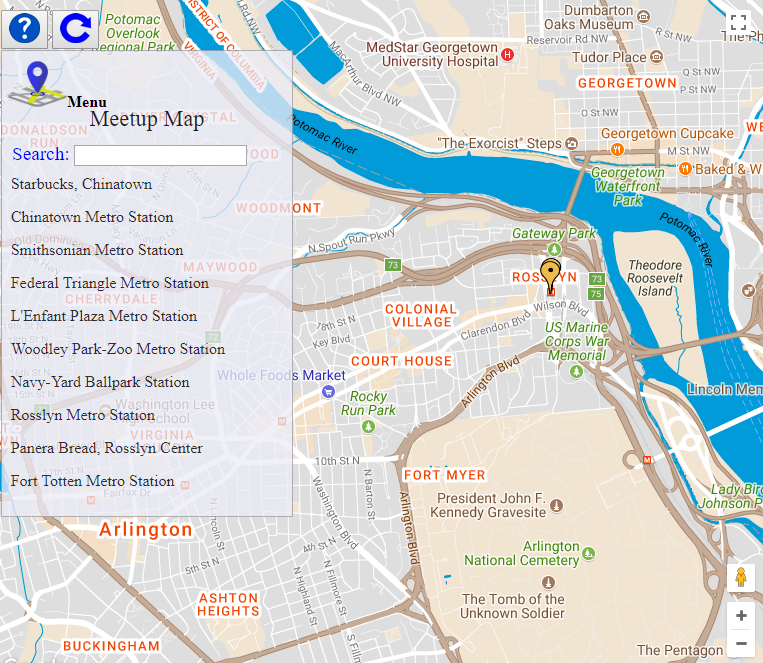
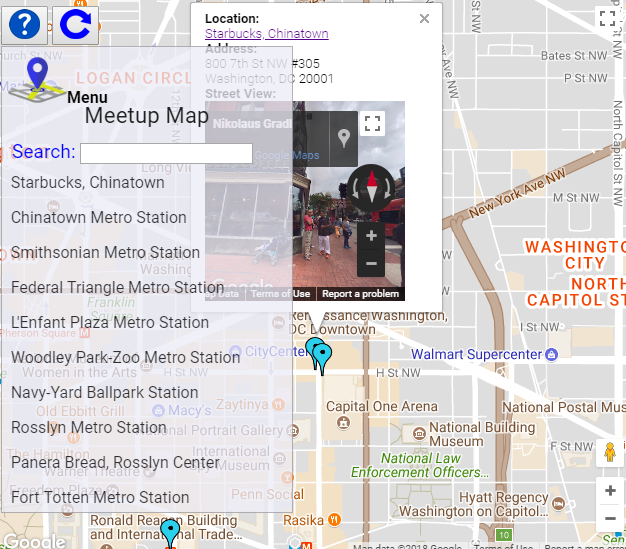
Add Titles & Image

diff --git a/index.html b/index.html
@@ -8,6 +8,7 @@
         <meta name="author" content="Petergns">
         <meta name="viewport" content="width=device-width, initial-scale=1">
         <!-- CSS sheet -->
+        <link href="https://fonts.googleapis.com/css?family=Roboto:500,700" rel="stylesheet">
         <link rel="stylesheet" href="css/style.css">
         <!--[if lt IE 9]>
           <script src="https://cdnjs.cloudflare.com/ajax/libs/html5shiv/3.7.3/html5shiv.js"></script>
@@ -17,7 +18,7 @@
 
       <div id="container" data-bind="style: { height: showToggleMenu() ? '465px' : '80px', width: showToggleMenu() ? '290px' : '70px' }">
           <div id="menuIcon" data-bind="click: toggleMenu" height="32px" id="Layer_1" style="enable-background:new 0 0 32 32;">
-            <img src="img/menu.png"><strong>Menu</strong>
+            <img src="img/menu.png" title="Open Map Menu"><strong>Menu</strong>
           </div>
             <div id="dropdown" class="hide" data-bind="css: { show: showToggleMenu }">
                 <div class="heading">Meetup Map</div>
@@ -35,10 +36,10 @@
         </div>
         <div class="add-ons-container">
           <!-- Optional Help Modal -->
-          <button class="trigger"><img src="img/help.png"/></button>
+          <button class="trigger"><img src="img/help.png" title="Help"/></button>
           <div class="modal">
             <div class="modal-content">
-              <span class="close-button">&times;</span>
+              <span class="close-button" title="Close">&times;</span>
               <h2>Meetup/Neighborhood Map Help</h2>
               [Optional Extra]
               <h4>Github Link:
@@ -62,7 +63,7 @@
             </div>
           </div>
           <!-- Refresh Button -->
-          <button><img src="img/refresh.png" onclick="reloadMap()"/></button>
+          <button><img src="img/refresh.png" title="Refresh Map" onclick="reloadMap()"/></button>
         </div>
         <!-- Google Meetup Map -->
         <div id="map"></div>
@@ -71,10 +72,10 @@
             <div data-bind="with: currentLocation">
               <b>Location:</b>
               <a data-bind="attr: { href: url, text: title }">
-                <div id="m-title" data-bind="text: title"></div></a>
+                <div id="data-title" data-bind="text: title"></div></a>
                 <b>Address:</b>
-               <div id="m-title" data-bind="text: street"></div>
-               <div id="m-title" data-bind="text: city"></div>
+               <div id="data-title" data-bind="text: street"></div>
+               <div id="data-title" data-bind="text: city"></div>
             </div>
             <b>Street View:</b>
             <div id="pano-box"></div>

diff --git a/js/map.js b/js/map.js
@@ -20,8 +20,8 @@ var Place = function(locations, BaseViewModel) {
     return markerImage;
   };
   // Marker Icon Colors
-  var defaultIcon = makeMarkerIcon("EBB851");
-  var highlightedIcon = makeMarkerIcon("FF7878");
+  var defaultIcon = makeMarkerIcon("5184eb");
+  var highlightedIcon = makeMarkerIcon("51d1eb");
   // Provide Marker InfoWindow Content
   var setTitle = this.title();
   var setURL = "https://" + this.url();

diff --git a/css/style.css b/css/style.css
@@ -4,6 +4,11 @@ body {
 	width: 100%;
 	margin: 0;
 	padding: 0;
+	font-family: 'Roboto', sans-serif;
+}
+
+.data-title {
+	font-family: 'Roboto', sans-serif;
 }
 
 #map {
